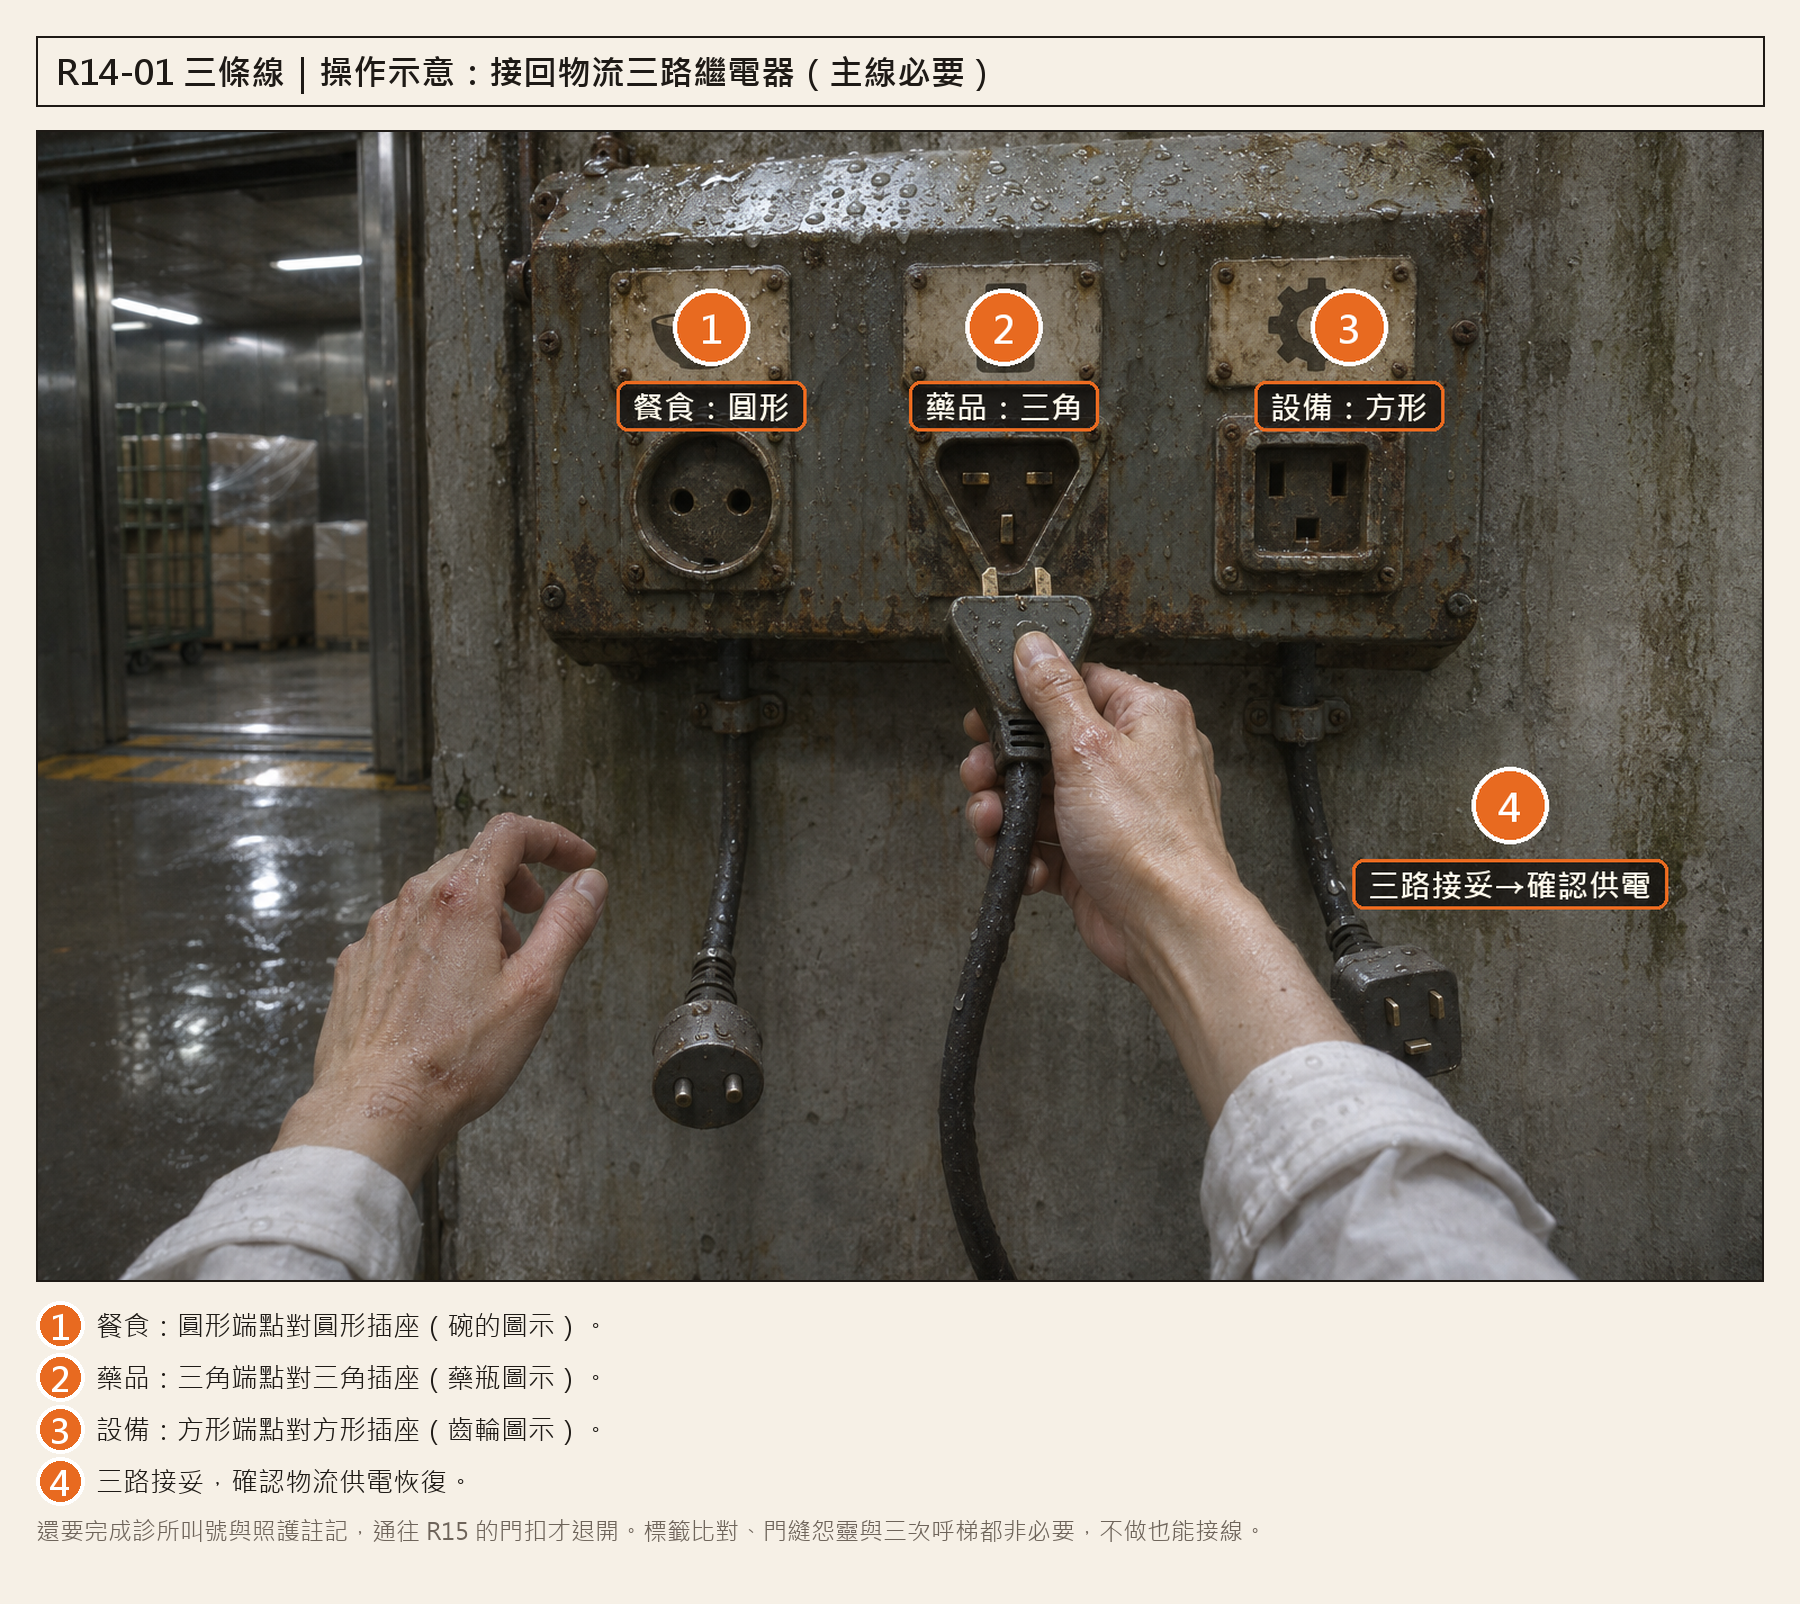
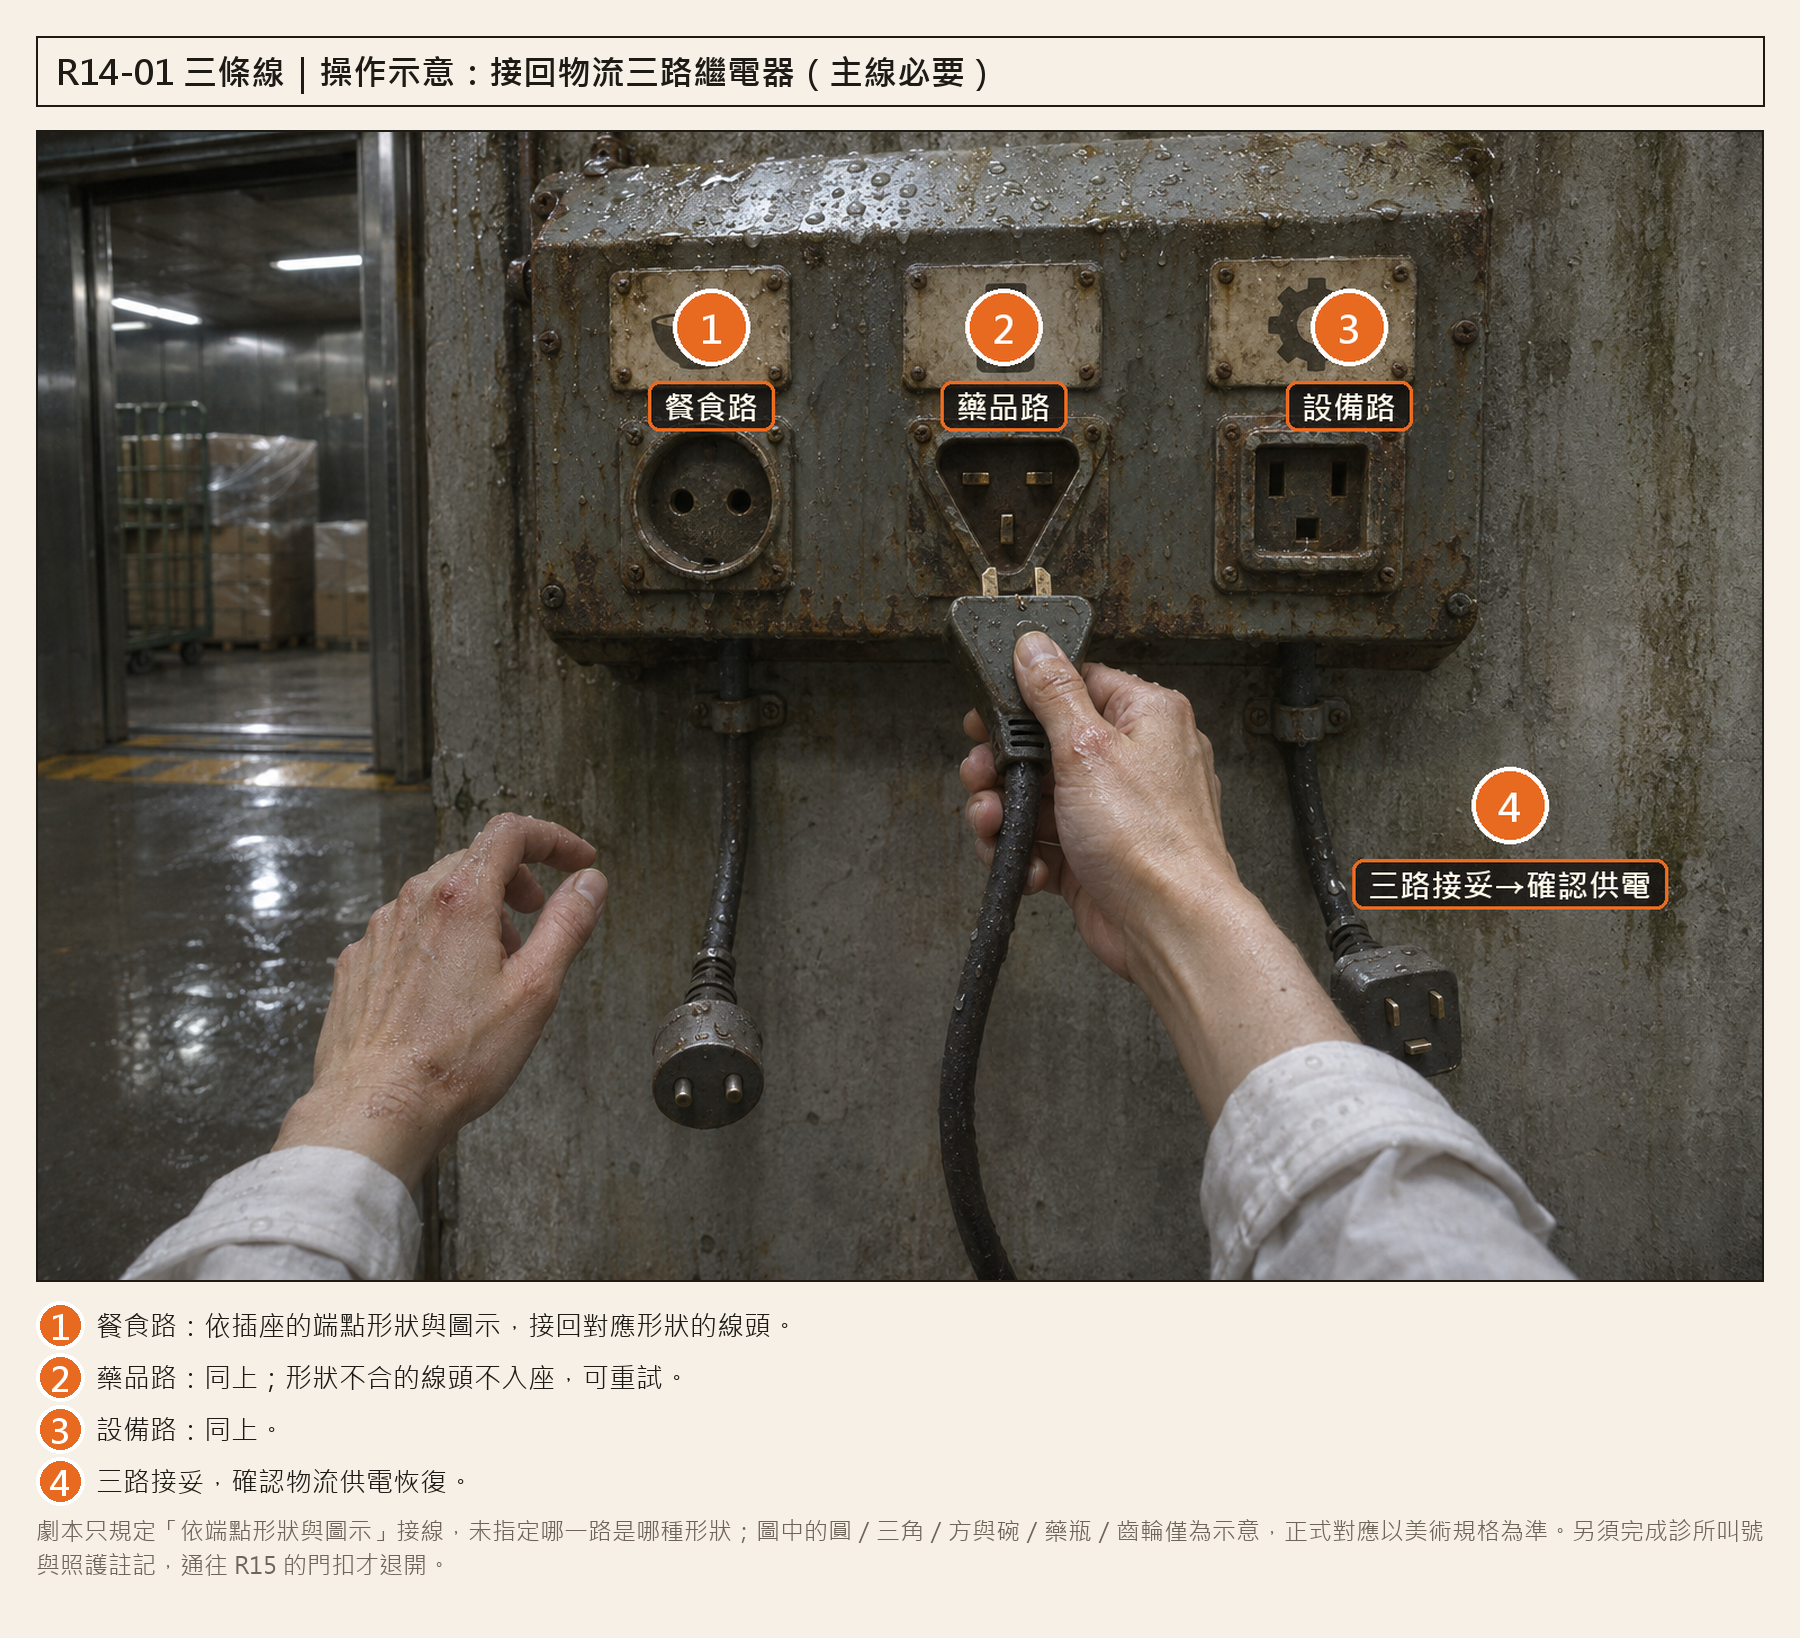
規格／劇本：修正操作示意圖與劇本不一致處
- R7-01：說明 ③ 改為 347 道刻痕核對身分，與圖上標號對齊；播放規則併入 ②。
- R14-01：標籤改為餐食／藥品／設備路，註明端點形狀與圖示對應僅為示意。
- R18-01：重生底圖，改為翻倒推車與垂掛門牌；前兆與移動窗改列為每段通則。
- R19-00：重生底圖，門已合妥、影子出現在門下光縫；補上回牆角換氣再屏息。
- R20-01：補上播放聲軌引來噤聲者、入口實心擋板才是完整遮蔽。
- R20-05、R22-03：「驗證通過」改標在螢幕、敲擊點改稱門邊舊凹痕。
- T-R12-R14-02：統一直接推車的結果（朝井口一沉、被牽引纜拉住、進不了停車槽）。

diff --git a/docs/09_劇本/09-06_正式劇本_第三幕.md b/docs/09_劇本/09-06_正式劇本_第三幕.md
@@ -621,7 +621,7 @@
 
 （靜態畫面／全景） [T-R12-R14-02](../10_製作規格/10-04_製作規格_第三幕.md#subscene-t-r12-r14-02-spec) 送貨車空車停在傾斜短軌上，壓住上行轉角。腳邊坡度指向內井，牆側保留一個固定停車槽。
 
-（靜態畫面／近景） [T-R12-R14-02-C01](../10_製作規格/10-04_製作規格_第三幕.md#node-r12-images) 牽引手輪、止退齒與停車槽。只能用牆上的手輪把空車拉向停車槽，直接推車會讓重量朝井口移動。
+（靜態畫面／近景） [T-R12-R14-02-C01](../10_製作規格/10-04_製作規格_第三幕.md#node-r12-images) 牽引手輪、止退齒與停車槽。只能用牆上的手輪把空車拉向停車槽，直接推車，車身只會朝井口一沉，隨即被未鬆的牽引纜拉住，進不了停車槽。
 
 〔操作／場景點擊＋物件操作〕轉動手輪拉回空車，讓原止退齒卡住，露出 26F 入口。
 
